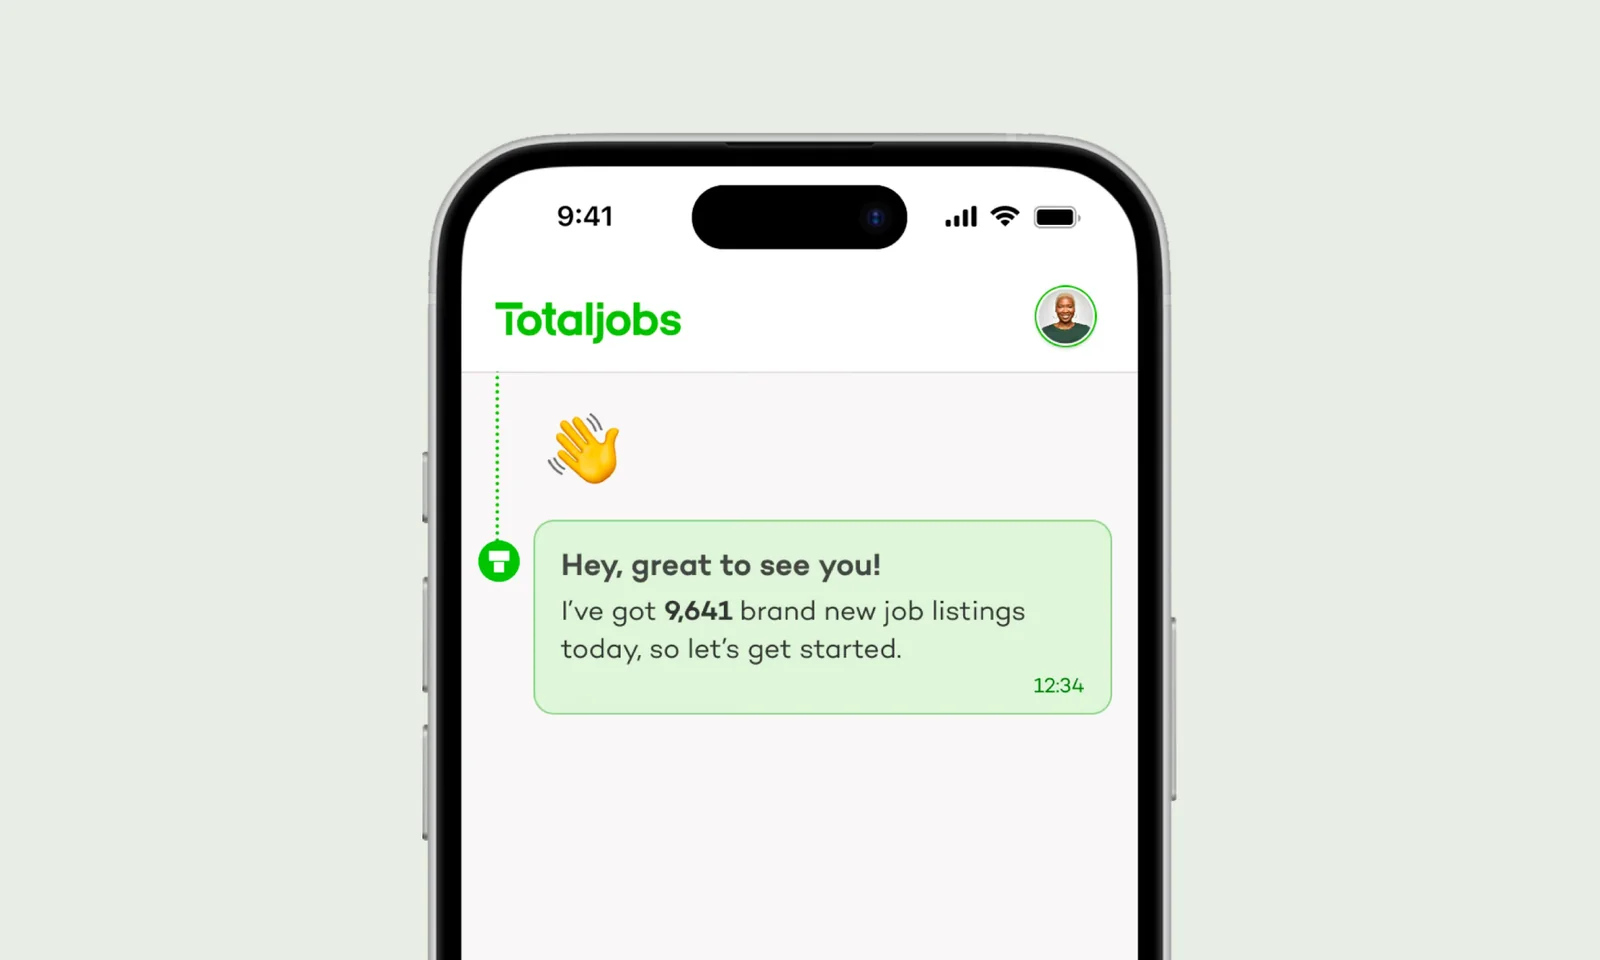
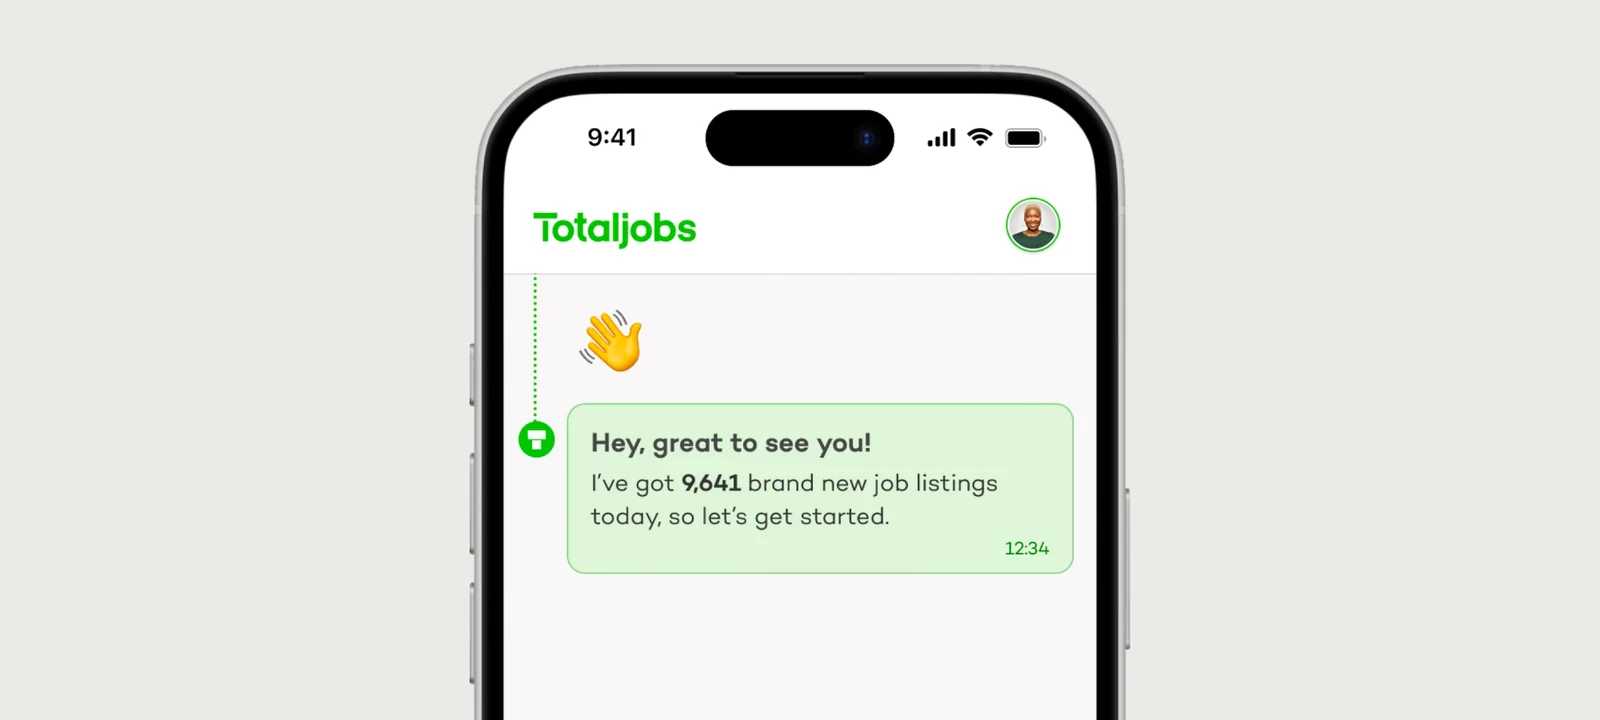
Update all Totaljobs images (new 20:9 format) and card images

Changed region(s): [[0.25, 0.0917, 0.75, 1.0]]

diff --git a/index.html b/index.html
@@ -660,7 +660,7 @@ ul,ol{margin:0;padding:0;list-style:none}
     </dl>
   </div>
   <div class="wrap">
-    <figure class="fig"><button data-cap="Conversational welcome"><img class="img-light" src="img/totaljobs-1.webp" width="1600" height="960" alt="Totaljobs app greeting the user with new job listings"><img class="img-dark" src="img/totaljobs-1-dark.webp" width="1600" height="960" alt="Totaljobs app greeting the user with new job listings"></button></figure>
+    <figure class="fig"><button data-cap="Conversational welcome"><img class="img-light" src="img/totaljobs-1.webp" width="1600" height="720" alt="Totaljobs app greeting the user with new job listings"><img class="img-dark" src="img/totaljobs-1-dark.webp" width="1600" height="720" alt="Totaljobs app greeting the user with new job listings"></button></figure>
     <section class="chapter split">
       <p class="t-label t-muted">01 · Concept</p>
       <div>
@@ -669,7 +669,7 @@ ul,ol{margin:0;padding:0;list-style:none}
       </div>
     </section>
     <div class="chapter figs" style="padding-top:var(--s-l)">
-      <figure class="fig c12"><button data-cap="Conversational onboarding and user guidance"><img class="img-light" src="img/totaljobs-2.webp" width="1600" height="960" alt="Three phone screens of a conversational onboarding flow" loading="lazy"><img class="img-dark" src="img/totaljobs-2-dark.webp" width="1600" height="960" alt="Three phone screens of a conversational onboarding flow" loading="lazy"></button><figcaption class="t-label">Conversational onboarding &amp; user guidance</figcaption></figure>
+      <figure class="fig c12"><button data-cap="Conversational onboarding and user guidance"><img class="img-light" src="img/totaljobs-2.webp" width="1600" height="720" alt="Three phone screens of a conversational onboarding flow" loading="lazy"><img class="img-dark" src="img/totaljobs-2-dark.webp" width="1600" height="720" alt="Three phone screens of a conversational onboarding flow" loading="lazy"></button><figcaption class="t-label">Conversational onboarding &amp; user guidance</figcaption></figure>
     </div>
     <section class="chapter split">
       <p class="t-label t-muted">02 · Job cards</p>
@@ -679,7 +679,7 @@ ul,ol{margin:0;padding:0;list-style:none}
       </div>
     </section>
     <div class="chapter figs" style="padding-top:var(--s-l)">
-      <figure class="fig c12"><button data-cap="Job cards with just the right information"><img class="img-light" src="img/totaljobs-3.webp" width="1600" height="960" alt="Three phone screens of focused job cards" loading="lazy"><img class="img-dark" src="img/totaljobs-3-dark.webp" width="1600" height="960" alt="Three phone screens of focused job cards" loading="lazy"></button><figcaption class="t-label">Focused job cards, filtering &amp; saving</figcaption></figure>
+      <figure class="fig c12"><button data-cap="Job cards with just the right information"><img class="img-light" src="img/totaljobs-3.webp" width="1600" height="720" alt="Three phone screens of focused job cards" loading="lazy"><img class="img-dark" src="img/totaljobs-3-dark.webp" width="1600" height="720" alt="Three phone screens of focused job cards" loading="lazy"></button><figcaption class="t-label">Focused job cards, filtering &amp; saving</figcaption></figure>
     </div>
     <a class="next" href="#hintsa"><p class="t-label t-muted">Next case · Hintsa Performance</p><p class="t-display"><span>Scalable performance coaching</span><span class="go">→</span></p></a>
   </div>
